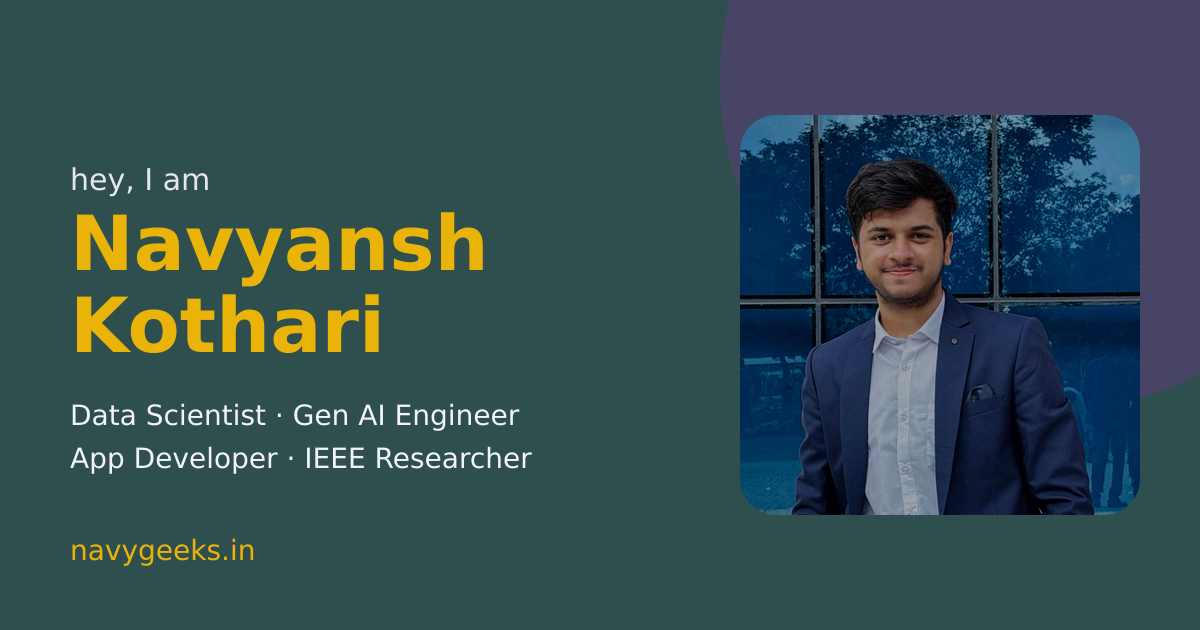
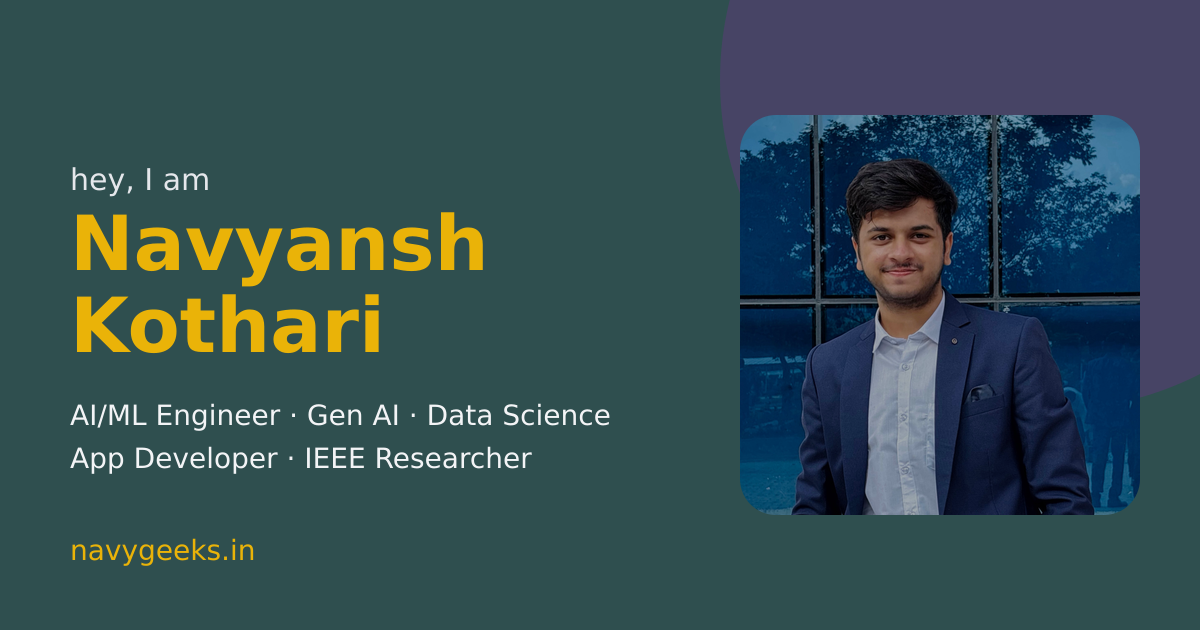
Use "AI/ML Engineer" as the role title across the site
Ganit experience entry, page titles and descriptions, structured-data
jobTitle, hero photo alt text and the link-preview image now say
AI/ML Engineer instead of Data Scientist & Gen AI Engineer.

Claude-Session: https://claude.ai/code/session_01Gi9NdFG1cQsiecXMp1WD36

Changed region(s): [[0.0617, 0.6333, 0.5242, 0.6937]]

diff --git a/src/pages/SectionPages.jsx b/src/pages/SectionPages.jsx
@@ -31,7 +31,7 @@ const collectionSchema = (name, path, description) => ({
 export function ExperiencePage() {
     const crumbs = [{ name: 'Home', path: '/' }, { name: 'Experience', path: '/experience' }];
     const description =
-        'Work experience of Navyansh Kothari: Data Scientist & Gen AI Engineer at Ganit Inc, Technical Growth Analyst at Hitwicket, and the NavyGeeks YouTube channel.';
+        'Work experience of Navyansh Kothari: AI/ML Engineer at Ganit Inc, Technical Growth Analyst at Hitwicket, and the NavyGeeks YouTube channel.';
     return (
         <>
             <Seo
@@ -132,7 +132,7 @@ export function SkillsPage() {
 export function AboutPage() {
     const crumbs = [{ name: 'Home', path: '/' }, { name: 'About & Contact', path: '/about' }];
     const description =
-        'About Navyansh Kothari: Data Scientist, backend and mobile developer, and creator of the NavyGeeks YouTube channel. Get in touch for projects and collaborations.';
+        'About Navyansh Kothari: AI/ML engineer, backend and mobile developer, and creator of the NavyGeeks YouTube channel. Get in touch for projects and collaborations.';
     return (
         <>
             <Seo

diff --git a/src/data/site.js b/src/data/site.js
@@ -1,7 +1,7 @@
 // Central site configuration used by the SEO components, sitemap and structured data.
 export const SITE_URL = 'https://navygeeks.in';
 export const SITE_NAME = 'Navyansh Kothari';
-export const SITE_TAGLINE = 'Data Scientist, Gen AI Engineer & App Developer';
+export const SITE_TAGLINE = 'AI/ML Engineer & App Developer';
 export const DEFAULT_IMAGE = `${SITE_URL}/og-image.png`;
 
 export const SOCIAL_LINKS = {
@@ -32,9 +32,9 @@ export const personSchema = {
     alternateName: 'NavyGeeks',
     url: `${SITE_URL}/`,
     image: `${SITE_URL}/profile.jpg`,
-    jobTitle: 'Data Scientist & Gen AI Engineer',
+    jobTitle: 'AI/ML Engineer',
     description:
-        'Data Scientist and Gen AI Engineer building RAG systems, machine learning models and mobile apps, and creating tech content as NavyGeeks.',
+        'AI/ML engineer building Gen AI products, RAG systems, machine learning models and mobile apps, and creating tech content as NavyGeeks.',
     worksFor: { '@type': 'Organization', name: 'Ganit Inc', url: 'https://www.ganitinc.com' },
     alumniOf: { '@type': 'CollegeOrUniversity', name: 'Vellore Institute of Technology' },
     knowsAbout: [

diff --git a/src/components/Experience.jsx b/src/components/Experience.jsx
@@ -19,7 +19,7 @@ const experiences = [
         company: 'Ganit Inc',
         period: 'Sep 2025 - Present',
         description: [
-            'Data Scientist & Gen AI Engineer',
+            'AI/ML Engineer',
             'Build Gen AI products end to end: RAG pipelines, LLM agents and APIs with FastAPI, LangChain and LangGraph on AWS',
             'Develop computer vision and document AI solutions such as OCR, face recognition and PII redaction',
             'Build machine learning models for BFSI and FMCG clients, including forecasting, clustering and price elasticity, explained with SHAP',

diff --git a/src/pages/Home.jsx b/src/pages/Home.jsx
@@ -37,7 +37,7 @@ export default function Home() {
         <>
             <Seo
                 title={`${SITE_NAME} | ${SITE_TAGLINE}`}
-                description="Navyansh Kothari is a Data Scientist and Gen AI Engineer at Ganit Inc, IEEE-published researcher, app developer and creator of the NavyGeeks tech channel."
+                description="Navyansh Kothari is an AI/ML Engineer at Ganit Inc, IEEE-published researcher, app developer and creator of the NavyGeeks tech channel."
                 path="/"
                 schema={homeSchema}
             />

diff --git a/src/components/Hero.jsx b/src/components/Hero.jsx
@@ -123,7 +123,7 @@ const Hero = () => {
 
                 <motion.img
                     src={profilepic}
-                    alt="Navyansh Kothari, Data Scientist and Gen AI Engineer"
+                    alt="Navyansh Kothari, AI/ML Engineer"
                     className="w-[250px] md:w-[350px] rounded-xl"
                     initial={{ opacity: 0, scale: 0.95 }}
                     whileInView={{ opacity: 1, scale: 1 }}
